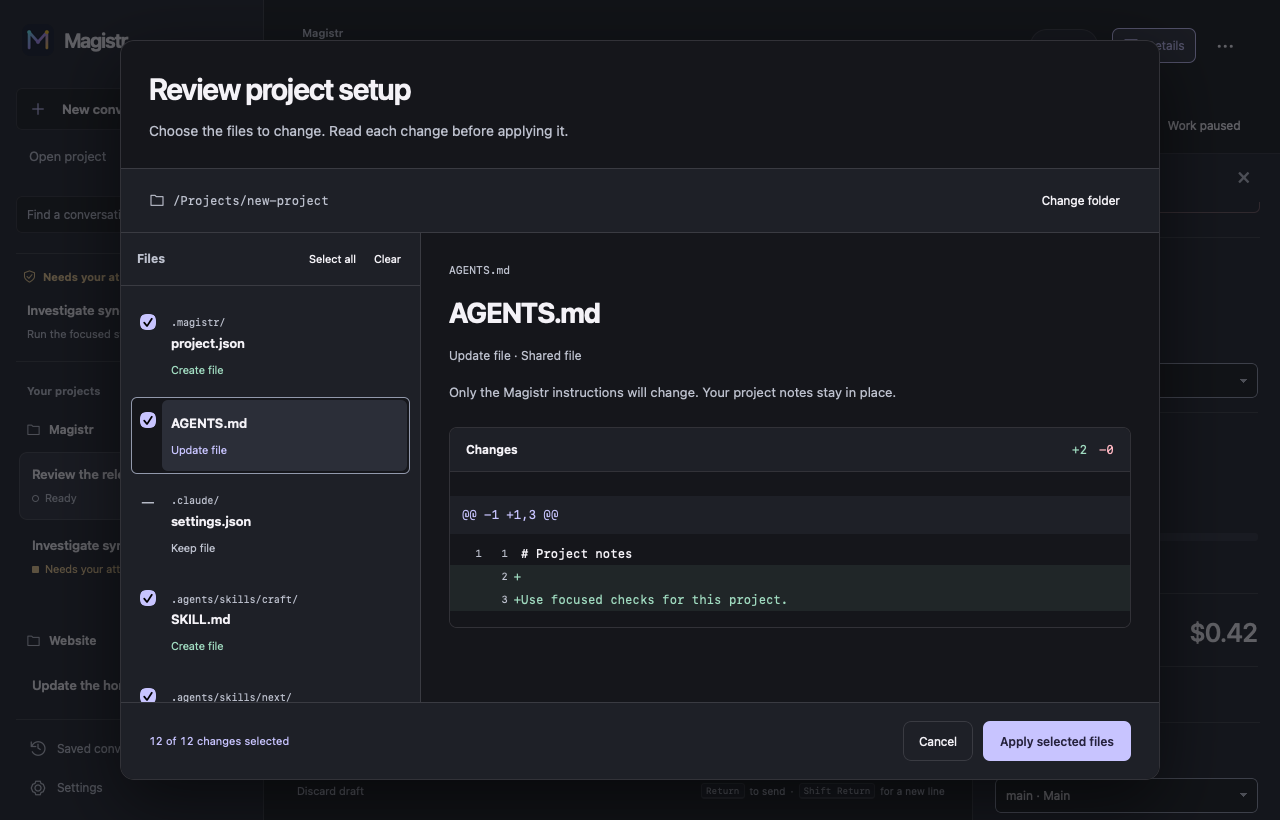
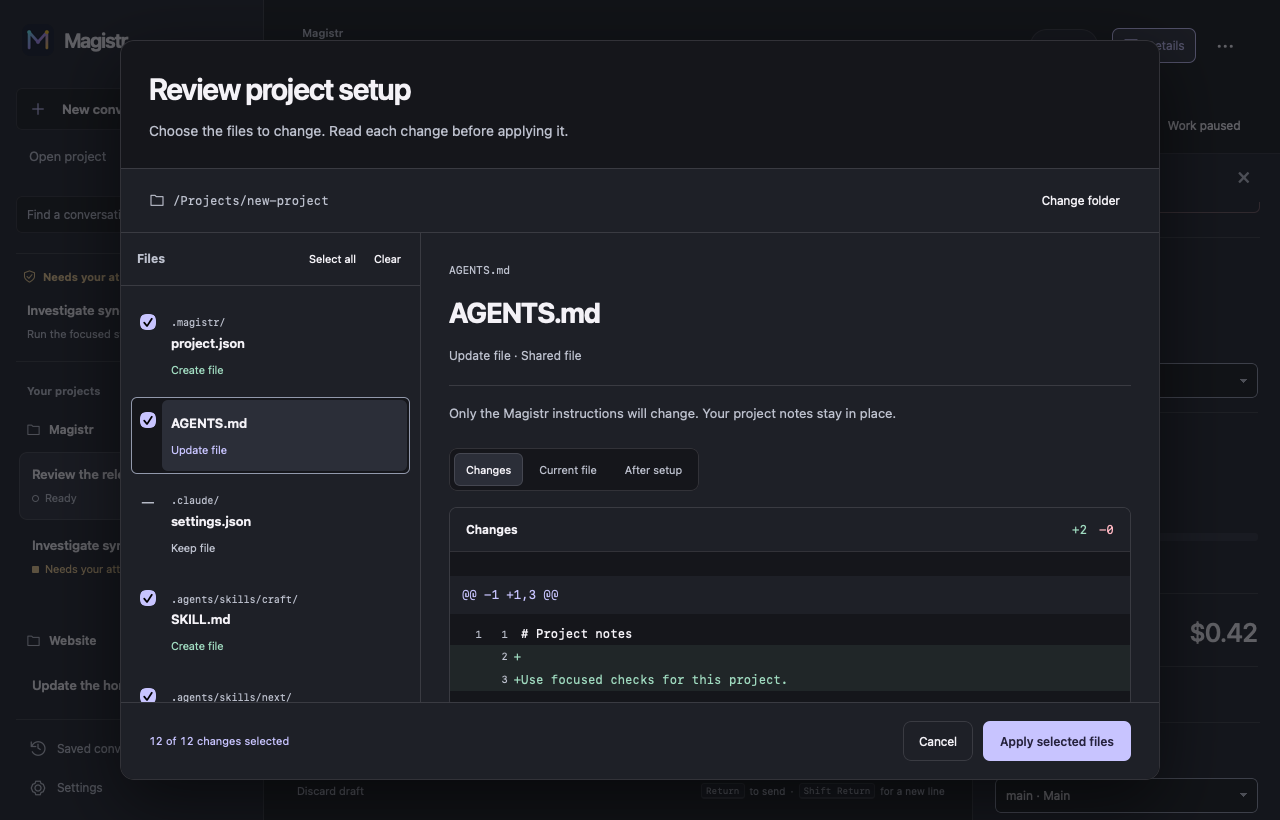
feat(desktop): compose setup document comparisons

diff --git a/crates/magistr-desktop/ui/style.css b/crates/magistr-desktop/ui/style.css
@@ -435,10 +435,10 @@ dialog h3{margin:20px 0 10px;font-size:17px}.dialog-actions{display:flex;justify
 .setup-kept{width:16px;flex-shrink:0;margin:10px 0 0 6px;color:var(--muted);text-align:center}
 .setup-file-open{flex:1;min-width:0;background:transparent;border-color:transparent!important;padding:12px 8px;font-size:13px}
 .setup-file-open span{display:block;overflow-wrap:anywhere;font-weight:550}.setup-file-open small{display:block;color:var(--muted);font-size:11px;margin-top:4px}.setup-file[data-action="Create file"] .setup-file-action{color:var(--success)}.setup-file[data-action="Update file"] .setup-file-action{color:var(--accent)}.setup-file[data-action="Remove file"] .setup-file-action{color:var(--danger)}
-#setup-change{overflow:auto;min-width:0;padding:28px;scroll-padding-block:28px}
+#setup-change{overflow:auto;min-width:0;padding:28px;scroll-padding-block:28px;background:var(--panel)}.setup-change-heading{padding-bottom:20px;border-bottom:1px solid var(--separator)}.setup-source-modes{display:flex;gap:4px;flex-wrap:wrap;margin-top:24px;padding:4px;border:1px solid var(--separator);border-radius:8px;background:var(--base);width:fit-content}.setup-source-modes button{border:1px solid transparent;background:transparent;font-size:11px;padding:7px 11px;min-height:32px;color:var(--muted)}.setup-source-modes button[aria-pressed=true]{background:var(--raised);border-color:var(--separator);color:var(--text)}
 #setup-change h3{font-size:28px;letter-spacing:-.035em;overflow-wrap:anywhere;margin:0 0 12px}
 .setup-file-path{font:11px/1.6 var(--font-code);overflow-wrap:anywhere;margin:0 0 12px;color:var(--muted)}
-.setup-code-sheet{margin:24px 0 0;border:1px solid var(--separator);border-radius:8px;overflow:hidden}.setup-code-sheet figcaption{display:flex;align-items:center;justify-content:space-between;gap:16px;padding:12px 16px;background:var(--panel);font-size:12px;font-weight:600}.setup-delta{display:flex;gap:12px;font:12px var(--font-code)}.setup-delta .added{color:var(--success)}.setup-delta .removed{color:var(--danger)}.setup-code-sheet>p{padding:16px;margin:0;font-size:13px}
+.setup-code-sheet{margin:16px 0 0;border:1px solid var(--separator);border-radius:8px;overflow:hidden}.setup-code-sheet figcaption{display:flex;align-items:center;justify-content:space-between;gap:16px;padding:12px 16px;background:var(--panel);font-size:12px;font-weight:600}.setup-delta{display:flex;gap:12px;font:12px var(--font-code)}.setup-delta .added{color:var(--success)}.setup-delta .removed{color:var(--danger)}.setup-code-sheet>p{padding:16px;margin:0;font-size:13px}
 #setup-change .setup-change-meta{font-size:12px;margin:0;color:var(--muted)}#setup-change .setup-reason{font-size:13px;margin:16px 0 0}
 #setup-change .setup-source{font:12px/1.9 var(--font-code);white-space:pre-wrap;overflow-wrap:anywhere;padding:16px 0;background:var(--base);border-top:1px solid var(--separator);margin:0;tab-size:2}
 .source-line{display:grid;grid-template-columns:4ch minmax(0,1fr);min-height:1.9em;padding-inline:12px}
